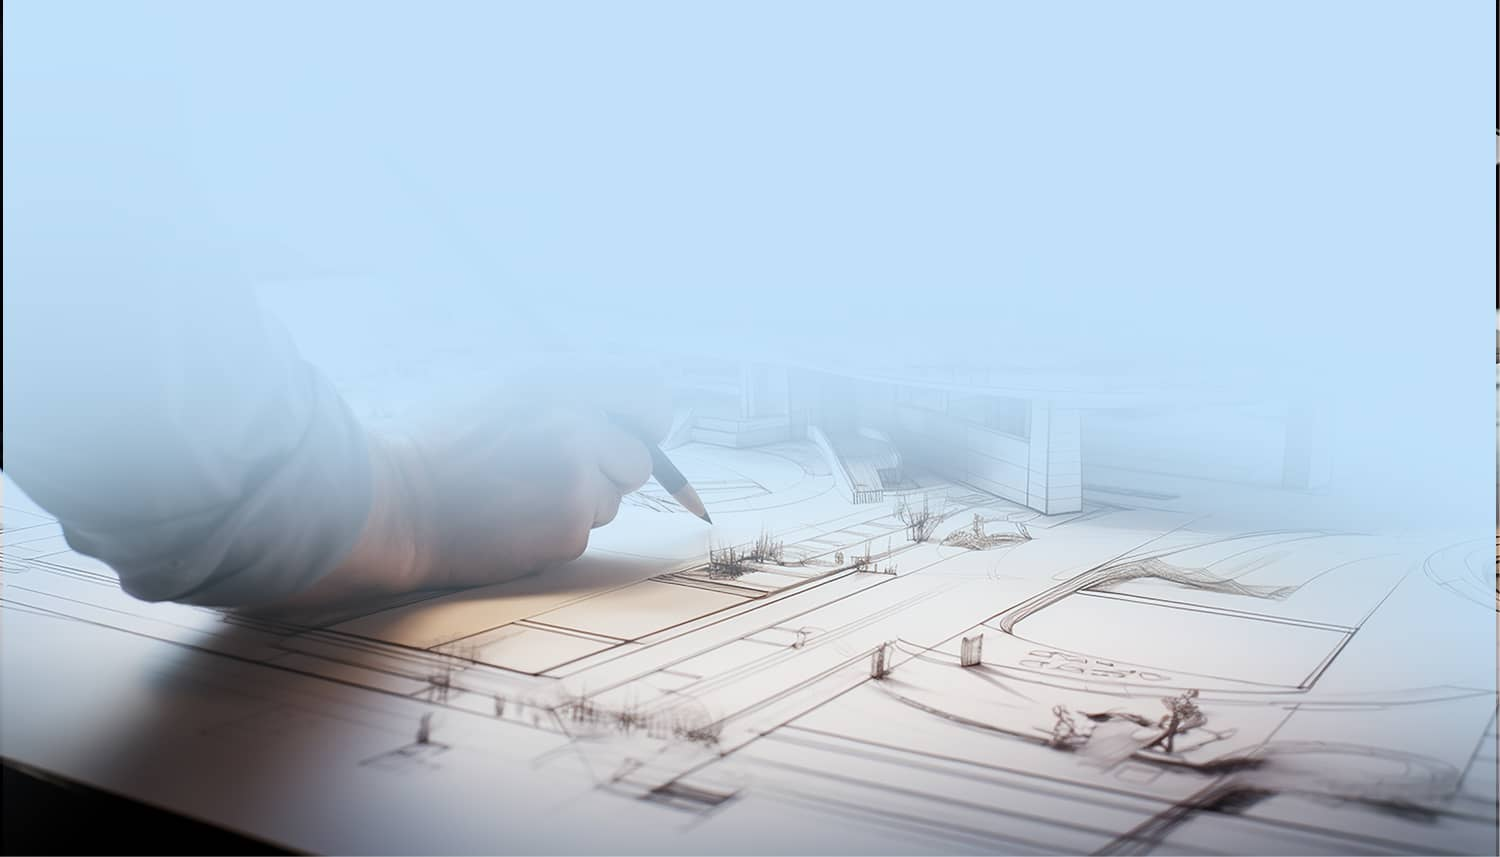
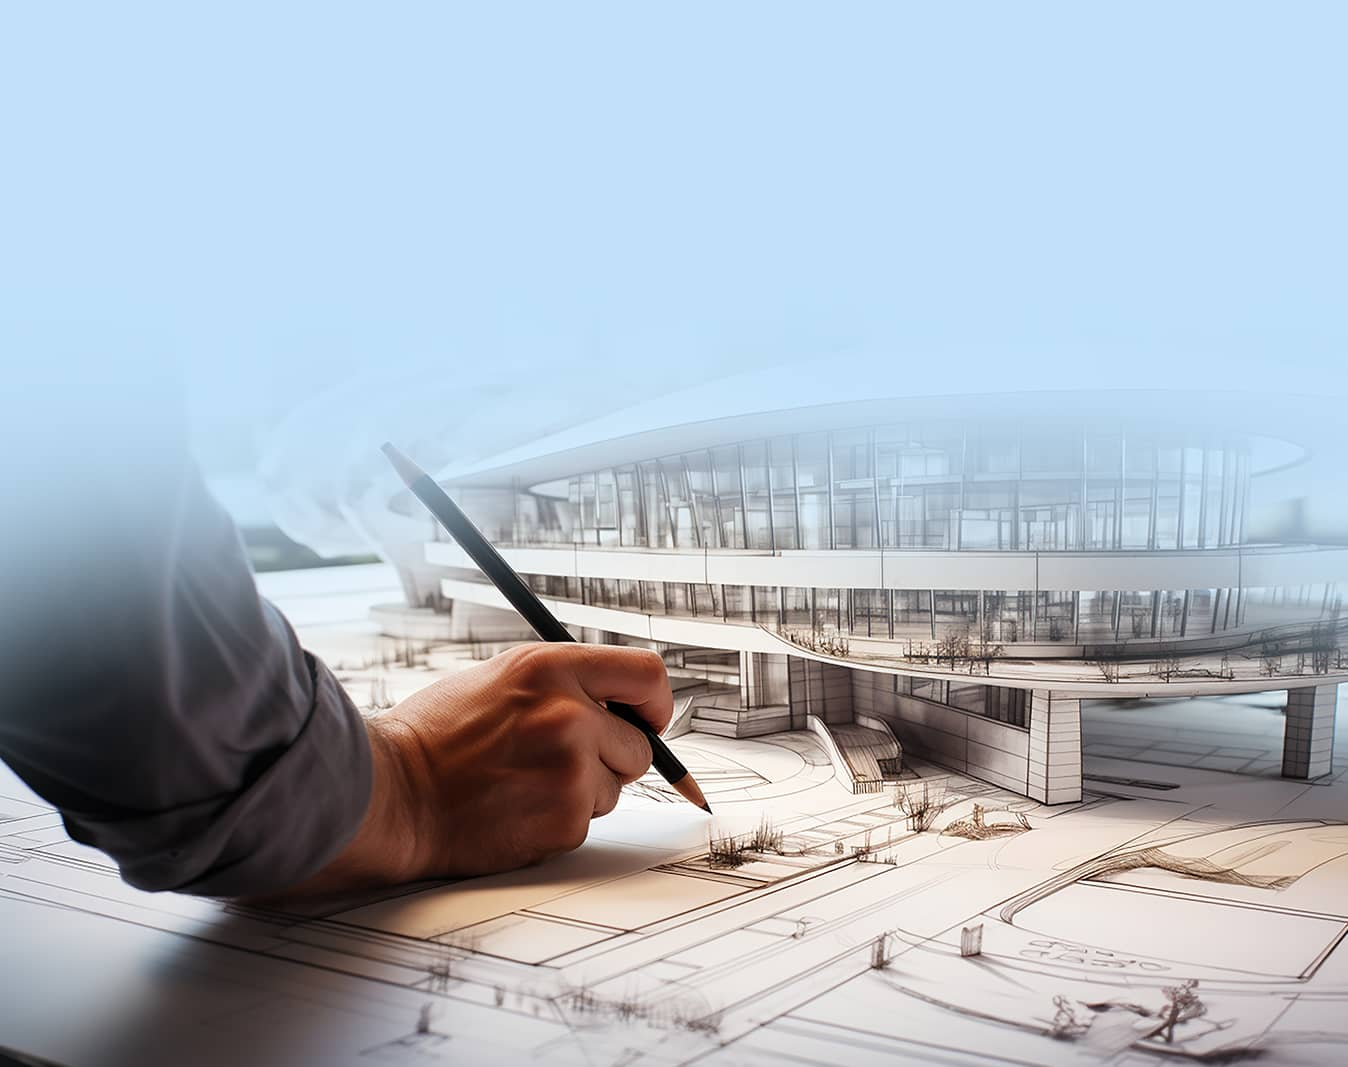
Change service page images

diff --git a/src/utils/serviceInfo.js b/src/utils/serviceInfo.js
@@ -121,14 +121,14 @@ export const servicesInfo = {
 					title: "Perfect for Interior designers and builders streamlining project delivery.",
 					heading: "Interior Design Detailing",
 					content: "From flooring and ceiling layouts to wall elevations and service drawings, we provide execution-ready interior documentation.",
-					image: require("../assets/images/service-details/architectural-visualization/what-we-do-item-2.png"),
+					image: require("../assets/images/service-details/technical-drawings/what-we-do-item-2.jpg"),
 					type: "non-floting",
 				}, {
 					id: "03",
 					title: "Perfect for Furniture makers, manufacturers, and fit-out contractors.",
 					heading: "Furniture & Joinery Drawings",
 					content: "We prepare detailed furniture and joinery drawings with dimensions, finishes, and material specs—ready for vendor execution.",
-					image: require("../assets/images/service-details/architectural-visualization/what-we-do-item-3.png"),
+					image: require("../assets/images/service-details/technical-drawings/what-we-do-item-3.jpg"),
 					type: "non-floting",
 				},
 			],
@@ -185,14 +185,14 @@ export const servicesInfo = {
 					title: "Perfect for Developers and Architects presenting projects to clients, investors, and buyers.",
 					heading: "Architectural Walkthroughs",
 					content: "We create smooth, cinematic walkthroughs that let clients experience scale, mood, and flow before construction begins.",
-					image: require("../assets/images/service-details/architectural-visualization/what-we-do-item-1.png"),
+					image: require("../assets/images/service-details/3d-animation-and-experiences/what-we-do-item-1.jpg"),
 					type: "non-floting",
 				}, {
 					id: "02",
 					title: "Perfect for Interior designers and homeowners making faster, clearer design decisions.",
 					heading: "Interactive Presentations",
 					content: "We design interactive interior presentations where clients can explore layouts, finishes, and styling in real-time.",
-					image: require("../assets/images/service-details/architectural-visualization/what-we-do-item-2.png"),
+					image: require("../assets/images/service-details/3d-animation-and-experiences/what-we-do-item-2.jpg"),
 					type: "non-floting",
 				}
 			],

diff --git a/src/components/common/GlassContainer.js b/src/components/common/GlassContainer.js
@@ -6,61 +6,6 @@ export default function GlassContainer(props) {
 	const { glassBackground } = props;
 	return (
 		<>
-			<svg className={styles.svg}>
-				<filter
-					id="glass-distortion"
-					x="0%"
-					y="0%"
-					width="100%"
-					height="100%"
-					filterUnits="objectBoundingBox"
-				>
-					<feTurbulence
-						type="fractalNoise"
-						baseFrequency="0.01 0.01"
-						numOctaves="1"
-						seed="5"
-						result="turbulence"
-					/>
-
-					<feComponentTransfer in="turbulence" result="mapped">
-						<feFuncR type="gamma" amplitude="1" exponent="10" offset="0.5" />
-						<feFuncG type="gamma" amplitude="0" exponent="1" offset="0" />
-						<feFuncB type="gamma" amplitude="0" exponent="1" offset="0.5" />
-					</feComponentTransfer>
-
-					<feGaussianBlur in="turbulence" stdDeviation="3" result="softMap" />
-
-					<feSpecularLighting
-						in="softMap"
-						surfaceScale="5"
-						specularConstant="1"
-						specularExponent="100"
-						lightingColor="white"
-						result="specLight"
-					>
-						<fePointLight x="-200" y="-200" z="300" />
-					</feSpecularLighting>
-
-					<feComposite
-						in="specLight"
-						operator="arithmetic"
-						k1="0"
-						k2="1"
-						k3="1"
-						k4="0"
-						result="litImage"
-					/>
-
-					<feDisplacementMap
-						in="SourceGraphic"
-						in2="softMap"
-						scale="150"
-						xChannelSelector="R"
-						yChannelSelector="G"
-					/>
-				</filter>
-			</svg>
 			<div className={styles.glassEffect} style={{ "--glassBackground": glassBackground }} />
 			<div className={styles.glassTint} style={{ "--glassBackground": glassBackground }} />
 			<div className={styles.glassShine} style={{ "--glassBackground": glassBackground }} />

diff --git a/src/App.js b/src/App.js
@@ -111,6 +111,61 @@ function App({ initialData = {} }) {
 			>
 				<ArrowUpFilled />
 			</div>
+			<svg className={styles.svg}>
+				<filter
+					id="glass-distortion"
+					x="0%"
+					y="0%"
+					width="100%"
+					height="100%"
+					filterUnits="objectBoundingBox"
+				>
+					<feTurbulence
+						type="fractalNoise"
+						baseFrequency="0.01 0.01"
+						numOctaves="1"
+						seed="5"
+						result="turbulence"
+					/>
+
+					<feComponentTransfer in="turbulence" result="mapped">
+						<feFuncR type="gamma" amplitude="1" exponent="10" offset="0.5" />
+						<feFuncG type="gamma" amplitude="0" exponent="1" offset="0" />
+						<feFuncB type="gamma" amplitude="0" exponent="1" offset="0.5" />
+					</feComponentTransfer>
+
+					<feGaussianBlur in="turbulence" stdDeviation="3" result="softMap" />
+
+					<feSpecularLighting
+						in="softMap"
+						surfaceScale="5"
+						specularConstant="1"
+						specularExponent="100"
+						lightingColor="white"
+						result="specLight"
+					>
+						<fePointLight x="-200" y="-200" z="300" />
+					</feSpecularLighting>
+
+					<feComposite
+						in="specLight"
+						operator="arithmetic"
+						k1="0"
+						k2="1"
+						k3="1"
+						k4="0"
+						result="litImage"
+					/>
+
+					<feDisplacementMap
+						in="SourceGraphic"
+						in2="softMap"
+						scale="150"
+						xChannelSelector="R"
+						yChannelSelector="G"
+					/>
+				</filter>
+			</svg>
 		</>
   );
 }

diff --git a/src/components/ServiceDetails/WhatWeDoBox.js b/src/components/ServiceDetails/WhatWeDoBox.js
@@ -25,7 +25,8 @@ function WhatWeDoBox(props) {
 			alignItems="flex-start"
 			style={
 				type !== "floting" ? {
-					background: `#a0bcd1 url(${image}) no-repeat bottom center`
+					background: `#a0bcd1 url(${image}) no-repeat bottom center`,
+					backgroundSize: 'cover',
 				} : {}
 			}
 		>

diff --git a/src/components/common/GlassContainer.module.scss b/src/components/common/GlassContainer.module.scss
@@ -1,7 +1,3 @@
-.svg {
-	display: none;
-}
-
 .glassEffect {
 	position: absolute;
 	z-index: 0;
@@ -11,6 +7,9 @@
 	filter: url(#glass-distortion);
 	overflow: hidden;
 	isolation: isolate;
+	will-change: transform;
+	contain: paint layout;
+  transform: translateZ(0);
 }
 
 .glassTint {

diff --git a/src/components/common/ContactForm.js b/src/components/common/ContactForm.js
@@ -199,7 +199,7 @@ function ContactForm(props) {
 					{TurnstileComponent && (
 						<TurnstileComponent
 							ref={captchaRef}
-							siteKey='0x4AAAAAABntleHsVEY0Ky_B'
+							siteKey='0x4AAAAAAB8A-8cleGROSkc1'
 						/>
 					)}
 				</form>

diff --git a/src/components/Home/ServiceCard.js b/src/components/Home/ServiceCard.js
@@ -29,6 +29,7 @@ export default function ServiceCard(props) {
 			className={styles.fullSupportItemGrid}
 			style={{
 				y: parallax,
+				willChange: "transform",
 			}}
 		>
 			<GlassContainer glassBackground="rgba(245, 244, 241, 0.5)" />

diff --git a/src/App.module.scss b/src/App.module.scss
@@ -1,3 +1,7 @@
+.svg {
+	display: none;
+}
+
 .backToTop {
 	position: fixed;
 	right: 20px;
